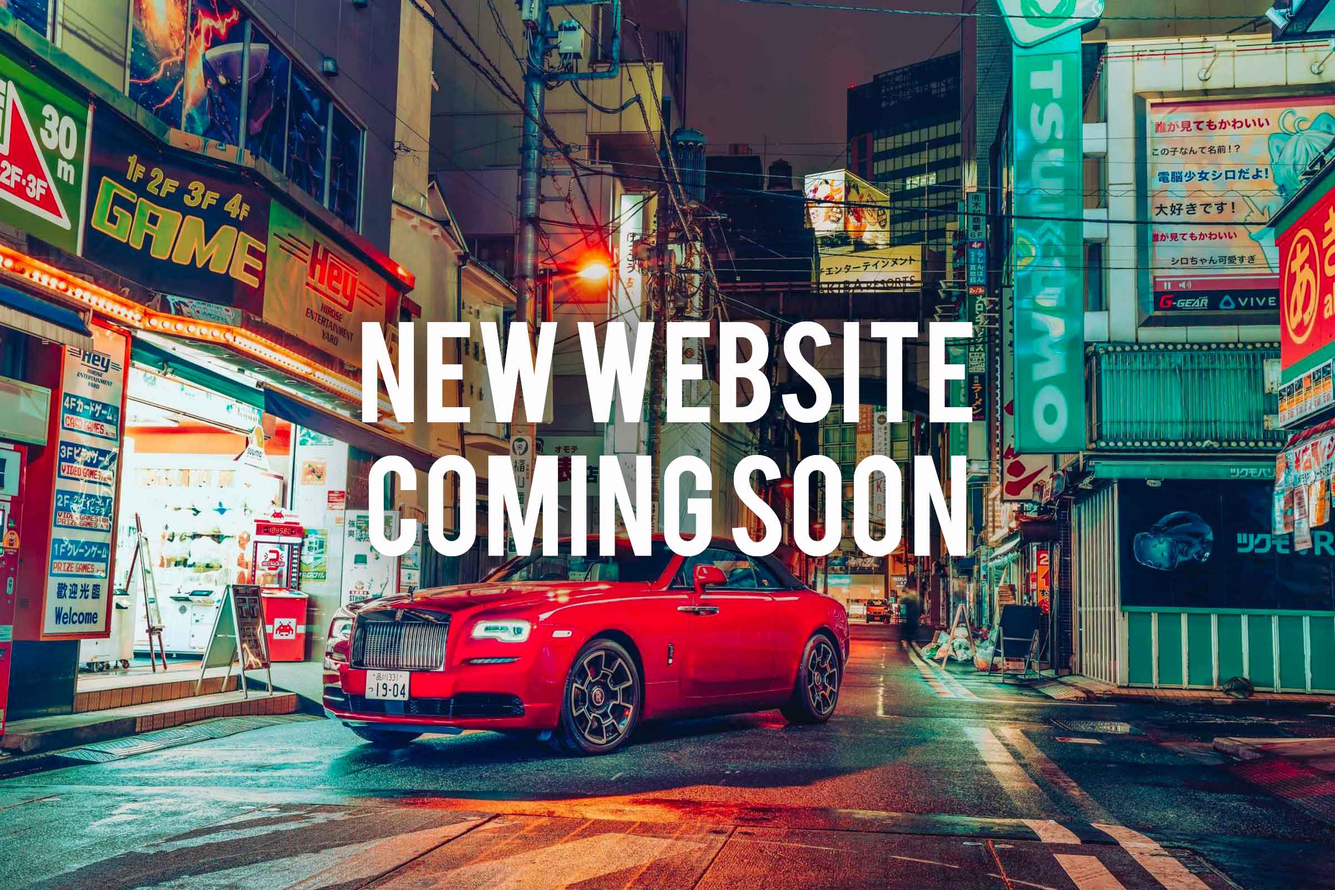
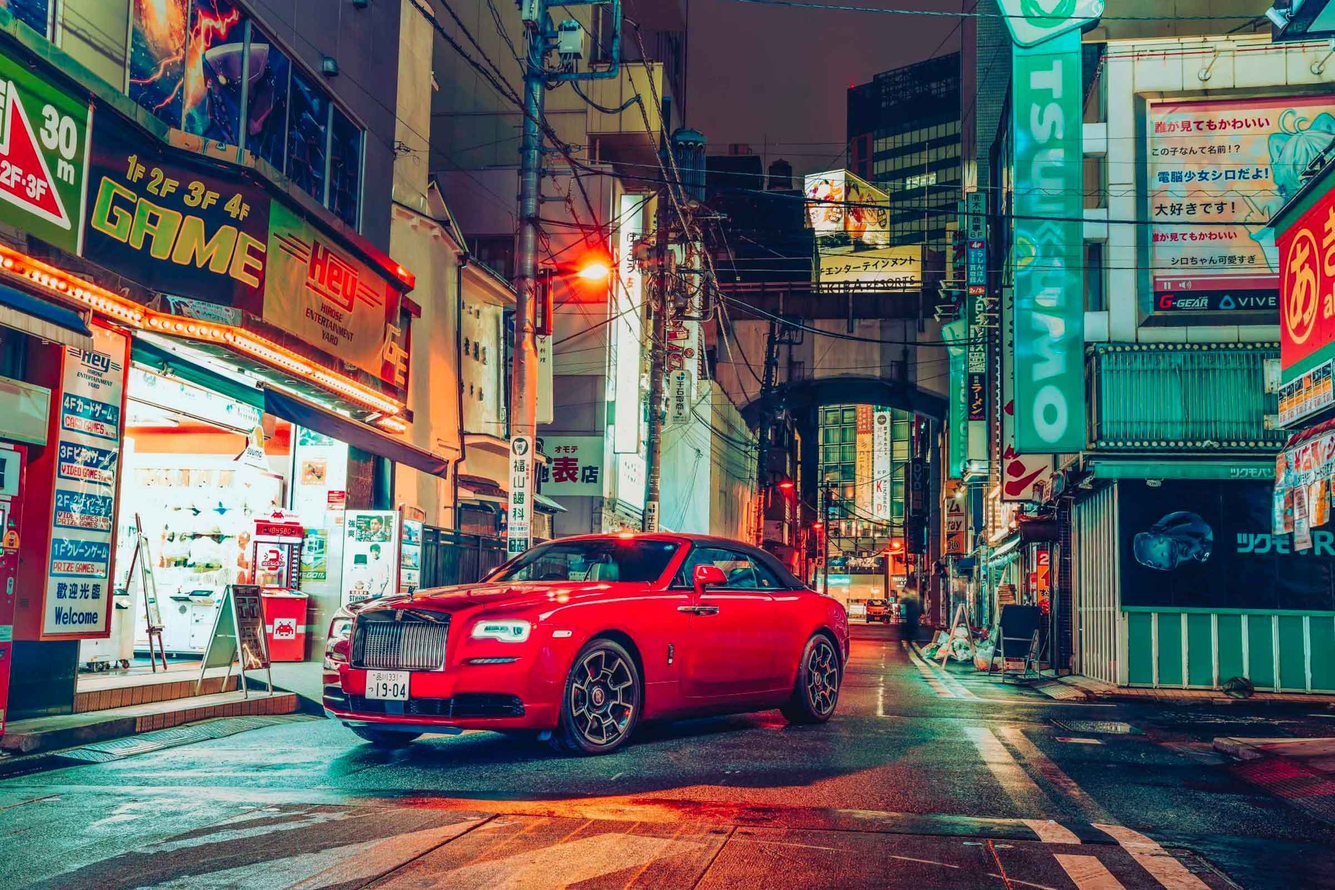
hit-combo

Changed region(s): [[0.2188, 0.3125, 0.75, 0.6875]]

diff --git a/index.html b/index.html
@@ -1,3 +1,4 @@
+  
 <!DOCTYPE html>
 <html lang="en">
 <head>
@@ -163,12 +164,12 @@
        Header Navigation
   ================================= -->
 
-  <!-- <<header>
+  <header>
     <nav class="navbar navbar-fixed-top">
       <div class="container-fluid">
         <div class="row">
           <div class="col-md-12 text-white col-transform">
-            <div class="navbar-wrapper"> -->
+            <div class="navbar-wrapper">
 
               <!-- Navbar Button -->
               <button class="navbar-button show-info" data-href="#content">
@@ -207,34 +208,28 @@
           <div class="reveal scale-out">
 
             <!-- Logo -->
-            <!-- <div class="p-t-b-15">
+            <div class="p-t-b-15">
               <img src="images/logo-lg.png" height="86" width="70" alt="">
-            </div> -->
-
+            </div>
             <!-- /End Logo -->
 
-            <!-- <<div class="p-t-b-15"> -->
+            <div class="p-t-b-15">
               <!-- Headline & Description -->
-              
-              <!-- <h2><span class="font-weight-200">We're launching our</span><br>new Website</h2>
+              <h2><span class="font-weight-200">We're launching our</span><br>new Website</h2>
 
-              <p>We're coming soon! Awesome template to present your future product or service.<br>We're
+              <p>We're coming soon!.<br>We're
                 working hard to give you the best experience!<br>
-              </p> -->
-
+              </p>
               <!-- /End Headline & Description -->
             </div>
             <!-- Arrow -->
-            
-            <!-- <div class="p-t-b-20">
+            <div class="p-t-b-20">
               <i class="icon icon-sm icon-arrows-slim-down-dashed"></i>
-            </div> -->
-
+            </div>
             <!-- /End Arrow -->
 
             <!-- Buttons -->
-            
-            <!-- <div class="p-t-b-15 btn-row">
+            <div class="p-t-b-15 btn-row">
               <button class="btn btn-color" data-toggle="modal"
                       data-target="#modal-notify"
                       role="button">Notify me
@@ -242,14 +237,12 @@
               <a class="btn btn-border-white show-info"
                  role="button" data-href="#content">
                 More info
-              </a> -->
-
+              </a>
             </div>
             <!-- /End Buttons -->
 
             <!-- Social Media Links -->
-            
-            <!-- <div class="p-t-b-30">
+            <div class="p-t-b-30">
               <p>
                 <a href="https://www.facebook.com/egotypes" class="link-white"><i
                     class="fa fa-facebook"></i></a>
@@ -260,8 +253,7 @@
                 <a href="https://www.behance.net/egotype" class="link-white"><i
                     class="fa fa-behance"></i></a>
               </p>
-            </div> -->
-
+            </div>
             <!-- Social Media Links -->
 
           </div>
@@ -334,7 +326,7 @@
             <figure class="col-xs-6 img-hover-effect">
               <a href="images/placeholder-1800-1200.jpg"
                  data-size="900x600">
-                <img class="img-responsive" src="images/placeholder-600-400.jpg"
+                <img class="img-responsive" src="images/placeholder-600-400-2.jpg"
                      alt="Image description"/>
               </a>
 
@@ -349,7 +341,7 @@
             <figure class="col-xs-6 img-hover-effect">
               <a href="images/placeholder-1800-1200.jpg"
                  data-size="900x600">
-                <img class="img-responsive" src="images/placeholder-600-400.jpg"
+                <img class="img-responsive" src="images/placeholder-600-400-3.jpg"
                      alt="Image description"/>
               </a>
 
@@ -364,7 +356,7 @@
             <figure class="col-xs-6 img-hover-effect">
               <a href="images/placeholder-1800-1200.jpg"
                  data-size="900x600">
-                <img class="img-responsive" src="images/placeholder-600-400.jpg"
+                <img class="img-responsive" src="images/placeholder-600-400-4.jpg"
                      alt="Image description"/>
               </a>
               <span class="img-title">Revival</span>
